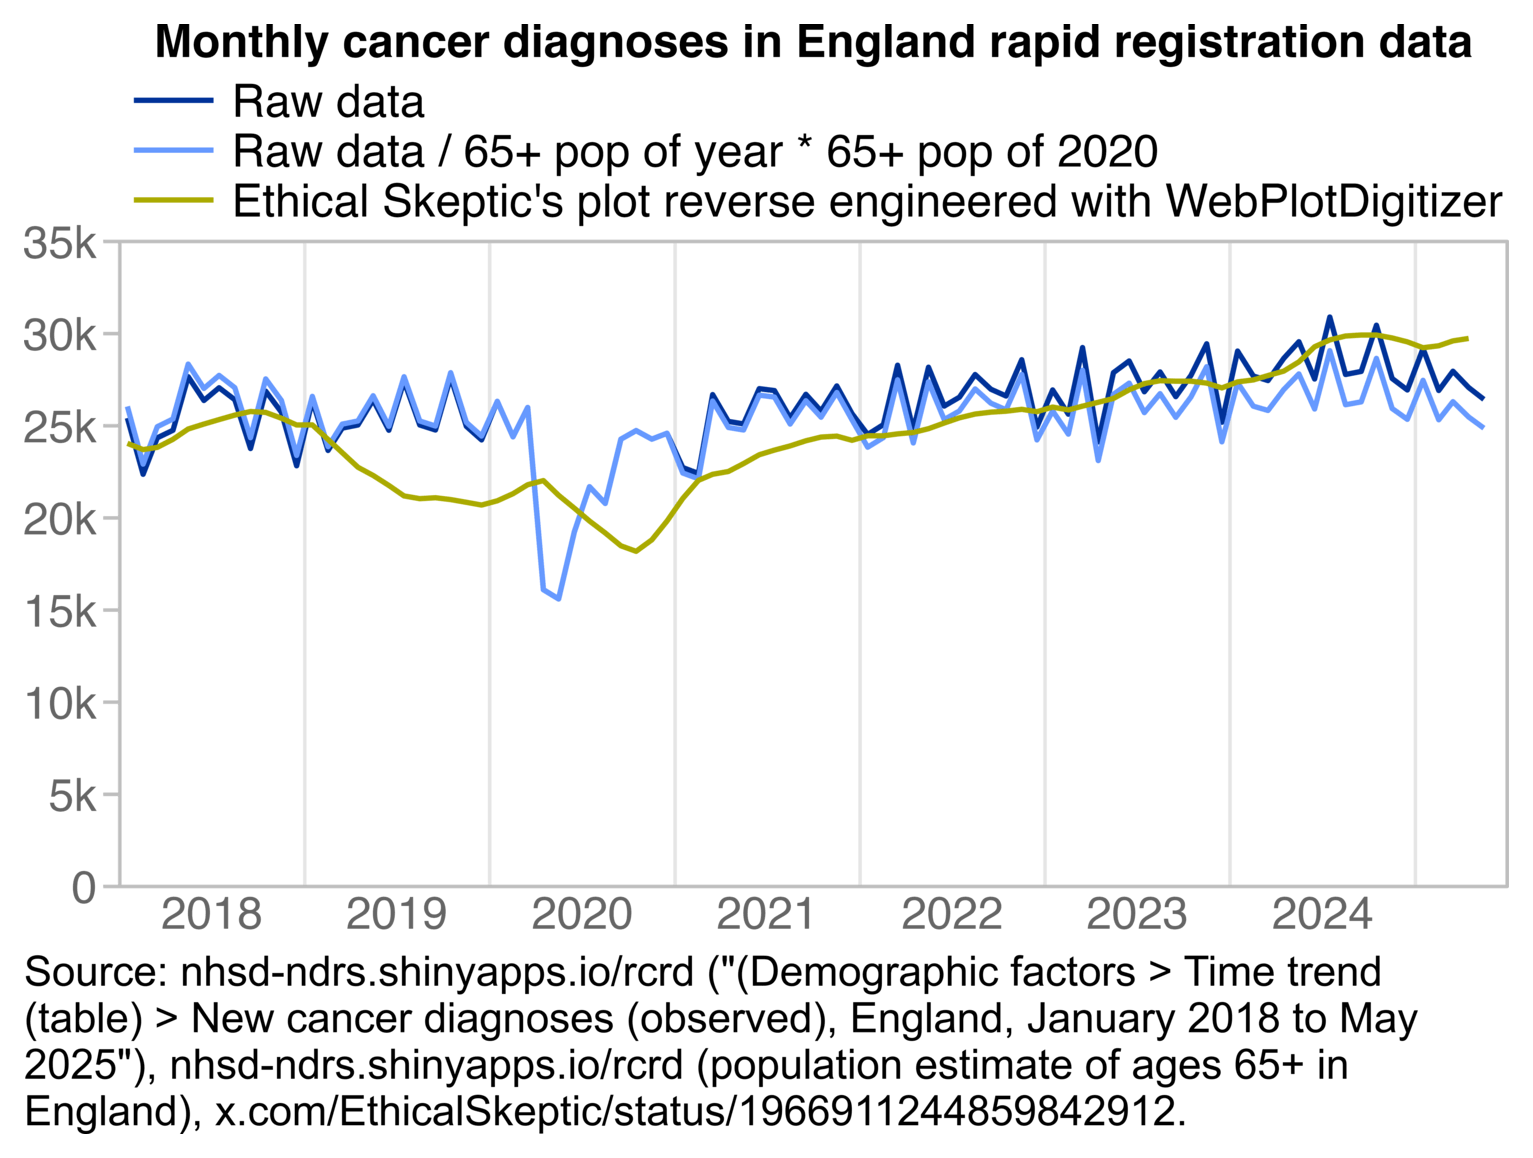
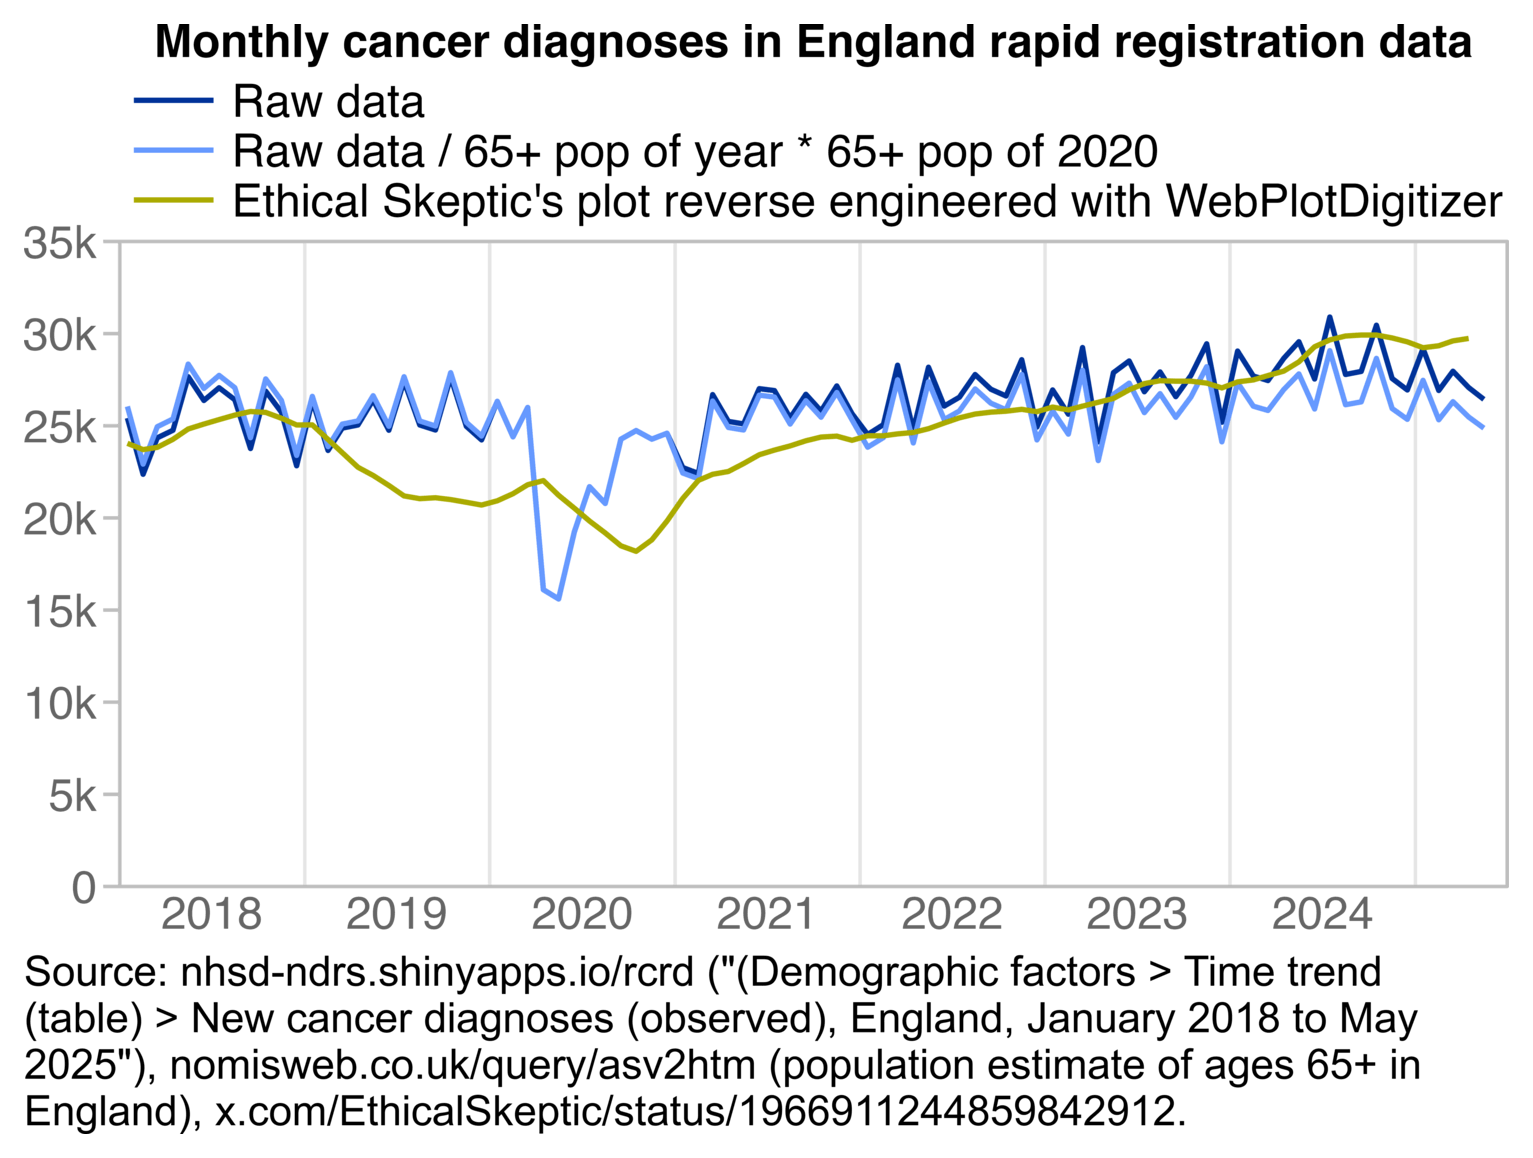
a

Changed region(s): [[0.1226, 0.9016, 0.9198, 0.9326]]

diff --git a/ethical2.html b/ethical2.html
@@ -3196,10 +3196,10 @@ round(a[,pctchange:=(cmr/c(NA,cmr[-.N])-1)*100][],1)
 <div>
 <img src=i/ethical-englandincidence-2.png width=500>
 </div>
-<p>ES used a dataset of rapid cancer registration data published by the National Disease Registration Service of England (NDRS), which only goes back to 2018. [<a href=https://nhsd-ndrs.shinyapps.io/rcrd/>https://nhsd-ndrs.shinyapps.io/rcrd/</a>] It includes one set of data adjusted for the number of working days per week and another set of unadjusted data. ES didn't specify which set he used, but I used the unadjusted data below.</p>
+<p>ES used a dataset of rapid cancer registration data published by the National Disease Registration Service of England (NDRS), which only goes back to 2018. [<a href=https://nhsd-ndrs.shinyapps.io/rcrd/>https://nhsd-ndrs.shinyapps.io/rcrd/</a>] It includes one set of data adjusted for the number of working days per week and another set of unadjusted data. ES didn't specify which of them he used, but I used the unadjusted data below.</p>
 <p>I believe ES got the proportion of population aged 65 and above from an interactive browser on the website of ONS. [<a href=https://www.ons.gov.uk/explore-local-statistics/indicators/percentage-of-the-population-aged-65-plus>https://www.ons.gov.uk/explore-local-statistics/indicators/percentage-of-the-population-aged-65-plus</a>] It didn't have a category for England but only for the whole UK, and even UK was missing data for 2024 and 2025. However the same population estimate data can be queried from Nomis, where you can select the region as England only, and data for 2024 is not missing. [<a href=https://www.nomisweb.co.uk/query/asv2htm>https://www.nomisweb.co.uk/query/asv2htm</a>]</p>
 <p>I used WebPlotDigitizer to digitize the data in Ethical Skeptic's plot. [<a href=https://automeris.io/wpd/>https://automeris.io/wpd/</a>] I then converted the values in his plot to the number of new cases by multiplying them with the yearly population estimates of people aged 65+ and dividing the result by 100,000.</p>
-<p>In the real data the slope of the trend in 2018-2019 was similar to the trend in 2021-2024. But ES seems to have somehow manually altered the data so that he exaggerated the decrease between 2018 and 2019, and he also exaggerated the increase between 2021 and 2024:</p>
+<p>The dark blue line in the next plot show that in the raw data from the NDRS dashboard, the slope of the trend in 2018-2019 was similar to the trend in 2021-2024. But ES seems to have somehow manually altered the data so that he exaggerated the decrease between 2018 and 2019, and he also exaggerated the increase between 2021 and 2024:</p>
 <div>
 <img src=i/ethical-englandincidence-3.png width=570>
 </div>
@@ -3221,7 +3221,7 @@ pop$total=c(55924528,56230056,56325961,56554891,57144395,57932470,58620101)
 pop$o65=c(10082761,10243221,10332210,10469044,10630852,10787479,10981092)
 
 es=CJ(year=2018:2025,month=1:12)[!(year==2025&amp;month&gt;4)]
-es$rate=c(238.49,235.11,236.32,240.66,246.21,248.86,251.28,253.69,255.62,255.13,252.00,248.38,244.52,236.80,229.81,222.09,217.75,212.44,206.89,205.44,205.93,204.96,203.51,202.07,202.55,206.28,210.99,213.16,205.44,198.69,191.94,185.66,178.91,176.02,182.05,191.94,201.10,210.51,213.65,215.09,219.19,223.78,226.19,228.36,231.01,232.94,233.43,231.25,230.05,230.05,231.01,231.74,233.67,236.56,239.21,241.14,242.11,242.59,243.56,242.35,241.14,239.70,241.63,243.56,245.49,249.83,252.96,254.41,254.17,254.17,253.21,250.79,249.34,250.31,252.48,254.65,259.24,266.71,270.09,272.02,272.50,272.50,271.05,269.12,266.23,267.19,269.61,270.81)
+es$rate=c(238.5,235.1,236.3,240.7,246.2,248.9,251.3,253.7,255.6,255.1,252.0,248.4,244.5,236.8,229.8,222.1,217.8,212.4,206.9,205.4,205.9,205.0,203.5,202.1,202.6,206.3,211.0,213.2,205.4,198.7,191.9,185.7,178.9,176.0,182.1,191.9,201.1,210.5,213.7,215.1,219.2,223.8,226.2,228.4,231.0,232.9,233.4,231.2,230.1,230.1,231.0,231.7,233.7,236.6,239.2,241.1,242.1,242.6,243.6,242.3,241.1,239.7,241.6,243.6,245.5,249.8,253.0,254.4,254.2,254.2,253.2,250.8,249.3,250.3,252.5,254.7,259.2,266.7,270.1,272.0,272.5,272.5,271.1,269.1,266.2,267.2,269.6,270.8)
 
 p3=es[,.(x=as.Date(paste(year,month,16,sep=&quot;-&quot;)),y=rate*pop$o65[match(pmin(year,2024),pop$year)]/1e5)]
 p3$z=&quot;Ethical Skeptic&#39;s plot reverse engineered with WebPlotDigitizer&quot;
@@ -3263,9 +3263,9 @@ theme(axis.text=element_text(size=11,color=&quot;gray40&quot;),
 ggsave(&quot;1.png&quot;,width=5.1,height=3.2,dpi=300*4)</pre>
 </div>
 <p>When I calculated yearly sums of the monthly data shown in the plot above, the incidence increased by about 0.5% between 2018 and 2019 in the dark blue line, decreased by about 1.0% in the light blue line, and decreased by about 11% in the yellow line.</p>
-<p>In the original data that I digitized from Ethical Skeptic's plot, the rate of new cases per 100,000 people aged 65 and above dropped by about 12% between 2018 and 2019:</p>
-<pre>es=CJ(year=2018:2025,month=1:12)[!(year==2025&amp;month&gt;4)]
-es$rate=c(238.49,235.11,236.32,240.66,246.21,248.86,251.28,253.69,255.62,255.13,252.00,248.38,244.52,236.80,229.81,222.09,217.75,212.44,206.89,205.44,205.93,204.96,203.51,202.07,202.55,206.28,210.99,213.16,205.44,198.69,191.94,185.66,178.91,176.02,182.05,191.94,201.10,210.51,213.65,215.09,219.19,223.78,226.19,228.36,231.01,232.94,233.43,231.25,230.05,230.05,231.01,231.74,233.67,236.56,239.21,241.14,242.11,242.59,243.56,242.35,241.14,239.70,241.63,243.56,245.49,249.83,252.96,254.41,254.17,254.17,253.21,250.79,249.34,250.31,252.48,254.65,259.24,266.71,270.09,272.02,272.50,272.50,271.05,269.12,266.23,267.19,269.61,270.81)
+<p>In the original data that I digitized from Ethical Skeptic's plot, the rate of new cases per 100,000 people aged 65 and above dropped by about 12% between 2018 and 2019, which seems completely unrealistic, and which is inconsistent with the real data:</p>
+<pre>es=CJ(year=2018:2025,month=1:12)[1:88]
+es$rate=c(238.5,235.1,236.3,240.7,246.2,248.9,251.3,253.7,255.6,255.1,252.0,248.4,244.5,236.8,229.8,222.1,217.8,212.4,206.9,205.4,205.9,205.0,203.5,202.1,202.6,206.3,211.0,213.2,205.4,198.7,191.9,185.7,178.9,176.0,182.1,191.9,201.1,210.5,213.7,215.1,219.2,223.8,226.2,228.4,231.0,232.9,233.4,231.2,230.1,230.1,231.0,231.7,233.7,236.6,239.2,241.1,242.1,242.6,243.6,242.3,241.1,239.7,241.6,243.6,245.5,249.8,253.0,254.4,254.2,254.2,253.2,250.8,249.3,250.3,252.5,254.7,259.2,266.7,270.1,272.0,272.5,272.5,271.1,269.1,266.2,267.2,269.6,270.8)
 round(es[,.(rate=mean(rate)),year][,pctchange:=(rate/shift(rate)-1)*100])
 # year rate pctchange
 # 2018  247        NA
